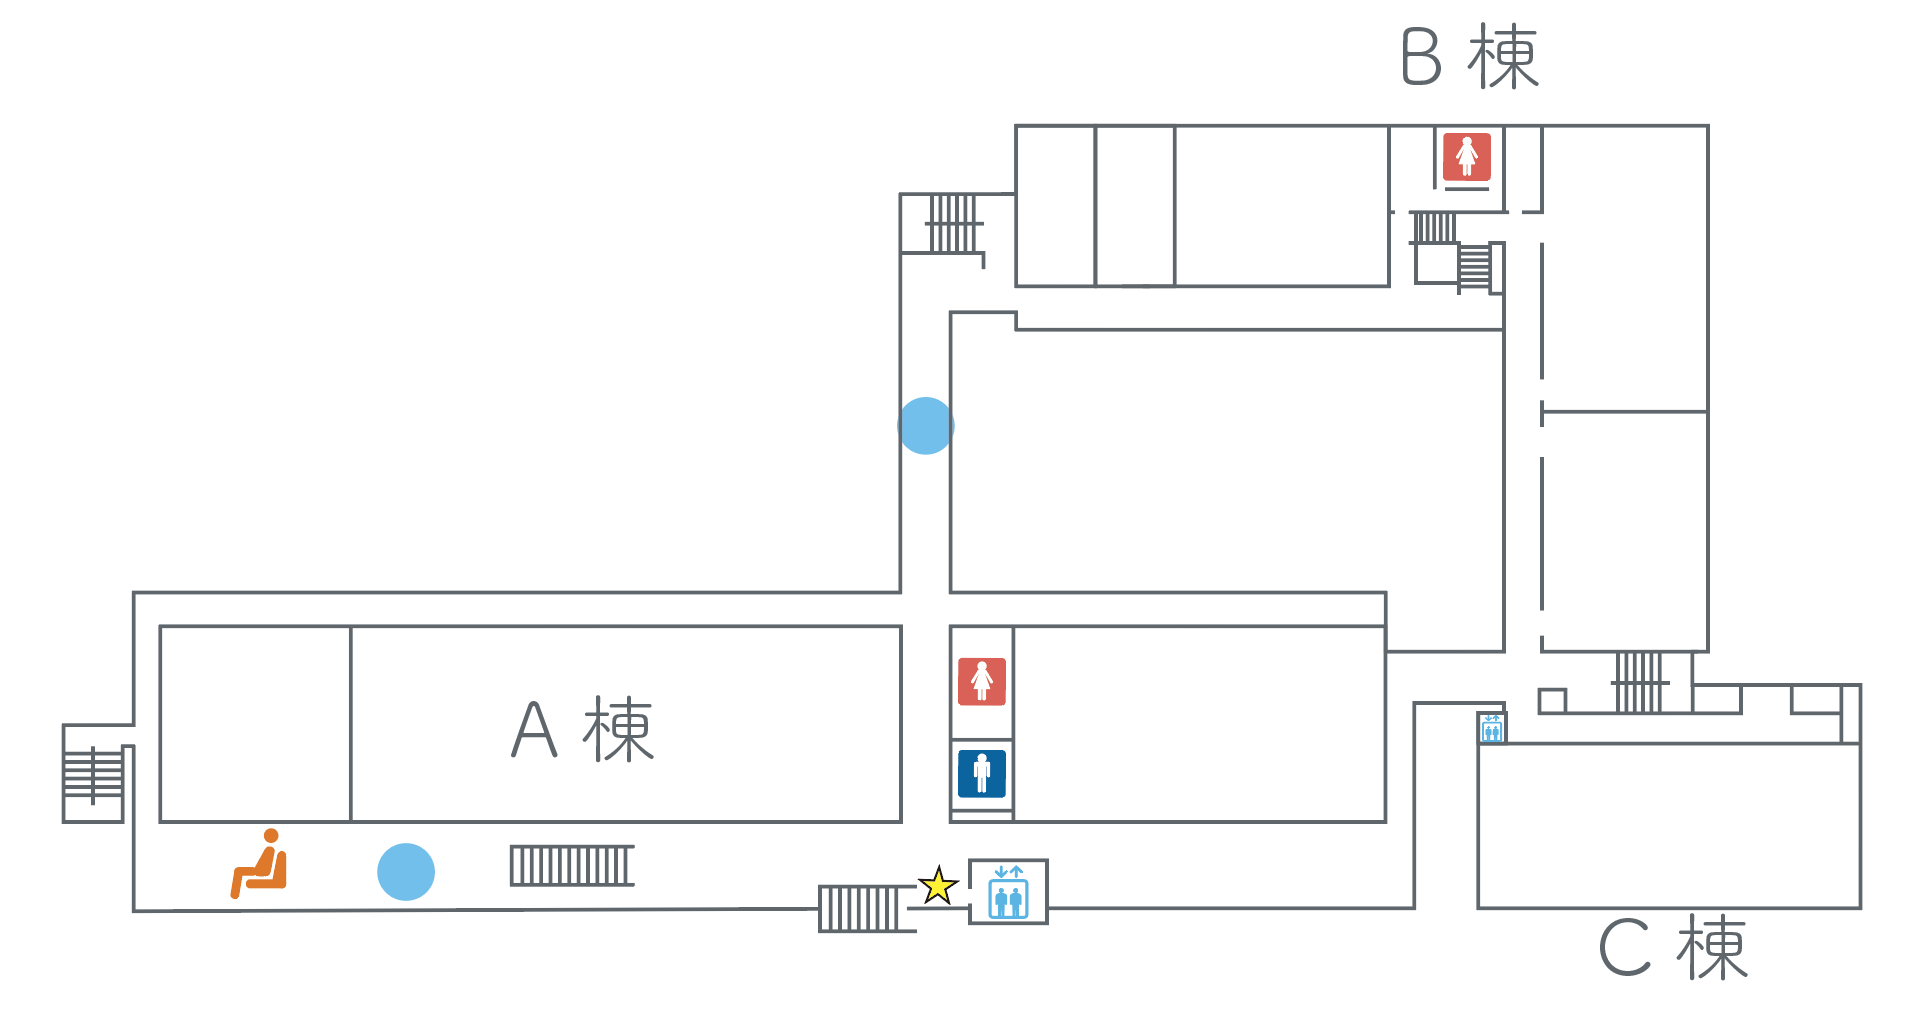
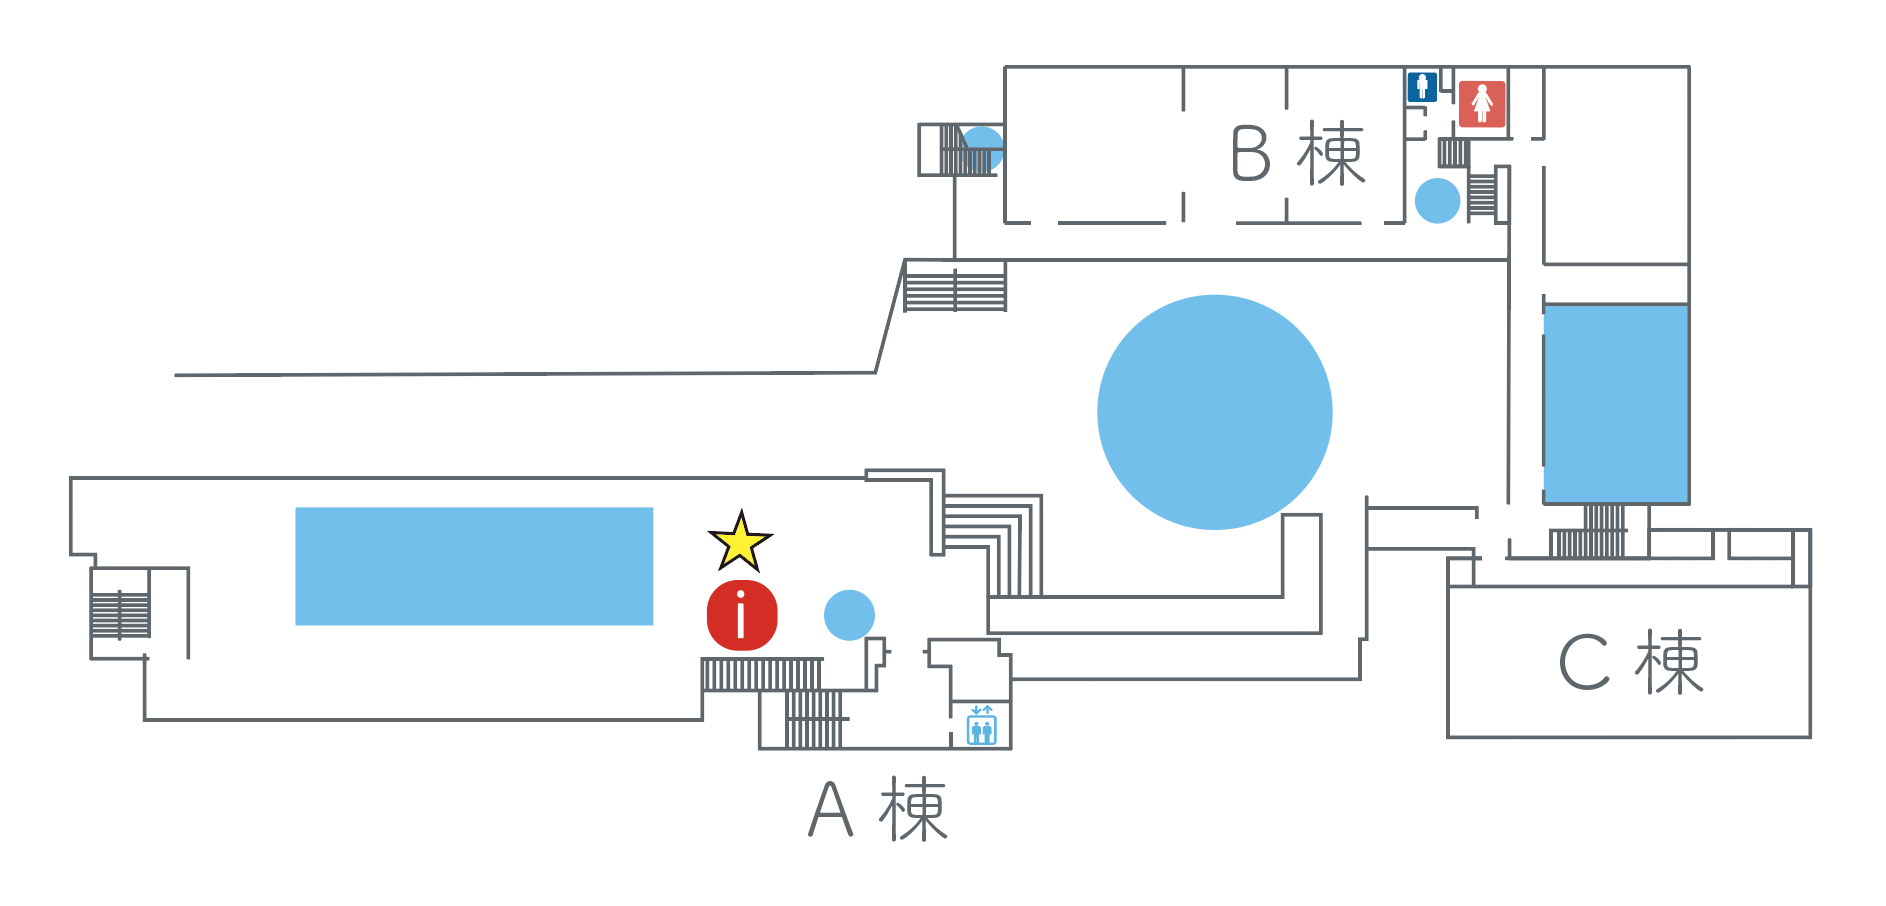
スタイルの微調整と会場マップの画像を更新

Changed region(s): [[0.0308, 0.0309, 0.9841, 0.9272], [0.7688, 0.8653, 0.9841, 0.9581], [0.8611, 0.1236, 0.8918, 0.1545]]

diff --git a/map.html b/map.html
@@ -6,8 +6,8 @@
 <section class="floor-group"><h2>A・B・C棟</h2><p class="section-desc">階ごとに確認できます。</p>
 <article class="floor"><h3>2階</h3><button class="map-image" data-full="images/venue/abc_2f.jpg" aria-label="A・B・C棟2階を拡大"><img src="images/venue/abc_2f.jpg" alt="A・B・C棟 2階の配置図"></button></article>
 <article class="floor"><h3>1階</h3><button class="map-image" data-full="images/venue/abc_1f.jpg" aria-label="A・B・C棟1階を拡大"><img src="images/venue/abc_1f.jpg" alt="A・B・C棟 1階の配置図"></button></article>
-<article class="floor"><h3>B棟 1階</h3><button class="map-image" data-full="images/venue/b_1f.jpg" aria-label="B棟1階を拡大"><img src="images/venue/b_1f.jpg" alt="B棟 1階の配置図"></button></article>
-<article class="floor"><h3>B棟 2階</h3><button class="map-image" data-full="images/venue/b_2f.jpg" aria-label="B棟2階を拡大"><img src="images/venue/b_2f.jpg" alt="B棟 2階の配置図"></button></article></section>
+<article class="floor"><h3>B1階</h3><button class="map-image" data-full="images/venue/b_1f.jpg" aria-label="B棟1階を拡大"><img src="images/venue/b_1f.jpg" alt="B棟 1階の配置図"></button></article>
+<article class="floor"><h3>B2階</h3><button class="map-image" data-full="images/venue/b_2f.jpg" aria-label="B棟2階を拡大"><img src="images/venue/b_2f.jpg" alt="B棟 2階の配置図"></button></article></section>
 <section class="floor-group"><h2>D棟</h2><article class="floor"><h3>1階・建物間の移動</h3><button class="map-image" data-full="images/venue/d_1f.jpg" aria-label="D棟1階と移動経路を拡大"><img src="images/venue/d_1f.jpg" alt="D棟1階とA・B・C棟からの移動経路"></button></article></section>
 <p class="map-note">トイレ・エレベーター・受付などの位置は、会場全体図でも確認できます。</p><a class="cta" href="stamp.html">スタンプラリーを見る →</a><nav class="bottom-links"><a href="index.html">TOPへ戻る</a><a href="story.html">絵本を読む</a></nav></main>
 <div id="zoom" class="lightbox" hidden role="dialog" aria-modal="true" aria-label="会場マップの拡大表示"><button id="zoomClose" class="close" type="button" aria-label="閉じる">×</button><div class="zoom-scroller"><img id="zoomImage" alt="拡大した会場マップ"></div><p>指で拡大・スクロールして確認できます</p></div>

diff --git a/CSS/style.css b/CSS/style.css
@@ -133,7 +133,7 @@ a{color:inherit}
 /* ABOUT */
 .about-section{min-height:1120px;padding-top:58px;overflow:visible}
 .about-leaf{
-  top:-235px;
+  top:-215px;
   left:-18%;
   right:auto;
   width:92%;
@@ -143,7 +143,7 @@ a{color:inherit}
   pointer-events:none;
 }
 .about-leaf-right{
-  top:-185px;
+  top:-205px;
   right:-24%;
   left:auto;
   width:78%;
